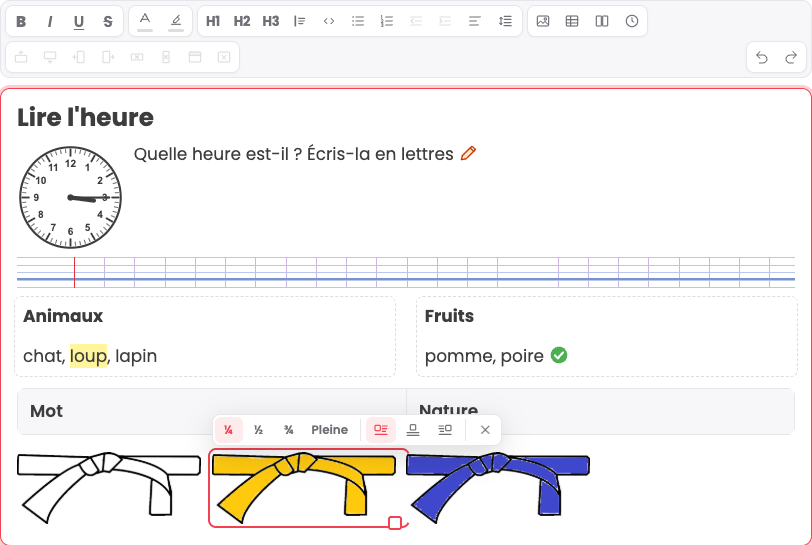
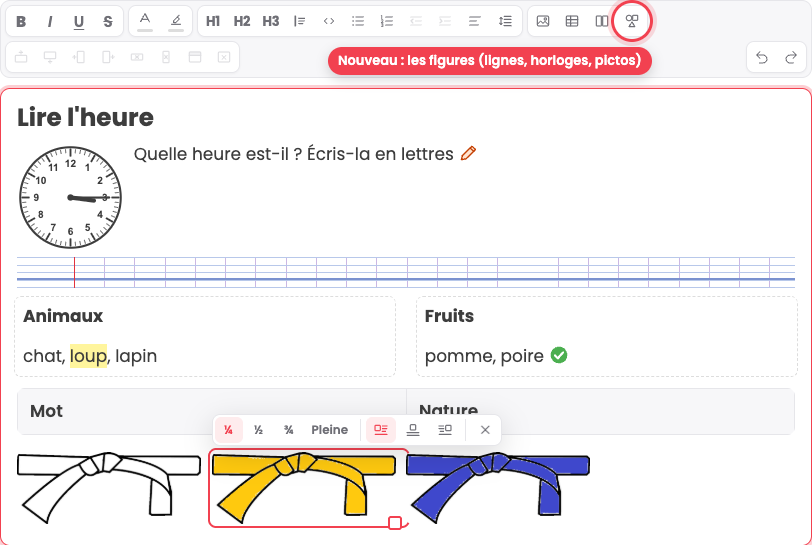
feat(annonces): « le tout nouvel éditeur », et le bouton Figures signalé
La capture signale le nouveau bouton Figures (cercle rose et étiquette), et le
texte y renvoie. Le bouton prend une icône de formes géométriques : il ouvre
lignes d'écriture, horloges et pictogrammes, l'horloge en icône laissait
croire qu'il ne servait qu'aux horloges.

Changed region(s): [[0.4002, 0.0, 0.8313, 0.156]]

diff --git a/app/javascript/controllers/editeur_enonce_controller.js b/app/javascript/controllers/editeur_enonce_controller.js
@@ -31,7 +31,9 @@ const ICONES = {
   indent: icone('<path d="M4 6h16M11 12h9M4 18h16"/><path d="m4.5 9 3 3-3 3"/>'),
   attach: icone('<rect x="3.5" y="4.5" width="17" height="15" rx="2.5"/><path d="m4 16.5 4.5-4.5 3.5 3.5 3-3 5 5"/><circle cx="15.5" cy="9" r="1.6"/>'),
   table: icone('<rect x="3.5" y="4.5" width="17" height="15" rx="2"/><path d="M3.5 10h17M3.5 15h17M10 4.5v15"/>'),
-  figure: icone('<circle cx="12" cy="12" r="8.5"/><path d="M12 7v5l3 2"/>'),
+  // Des formes géométriques : le menu ne contient pas que des horloges (lignes
+  // d'écriture, pictogrammes aussi), l'horloge en icône le laissait croire.
+  figure: icone('<circle cx="7.5" cy="7.5" r="4"/><rect x="13" y="3.5" width="7.5" height="7.5" rx="1"/><path d="M12 13.5 16.5 20.5h-9z"/>'),
   link: icone('<path d="m9.5 14.5 5-5"/><path d="M13 7.5 14.5 6a4 4 0 0 1 5.5 5.5L18.5 13"/><path d="M11 16.5 9.5 18A4 4 0 0 1 4 12.5L5.5 11"/>'),
   undo: icone('<path d="m9 14-5-5 5-5"/><path d="M4 9h9.5a6 6 0 0 1 0 12H8"/>'),
   redo: icone('<path d="m15 14 5-5-5-5"/><path d="M20 9h-9.5a6 6 0 0 0 0 12H16"/>'),

diff --git a/app/models/annonce.rb b/app/models/annonce.rb
@@ -18,7 +18,7 @@ class Annonce
   end
 
   ACTIVES = [
-    new(id: "nouvel-editeur-2026-10", titre: "Nouvel éditeur d'exercice",
+    new(id: "nouvel-editeur-2026-10", titre: "Le tout nouvel éditeur d'exercice",
         partial: "annonces/nouvel_editeur")
   ].freeze
 
